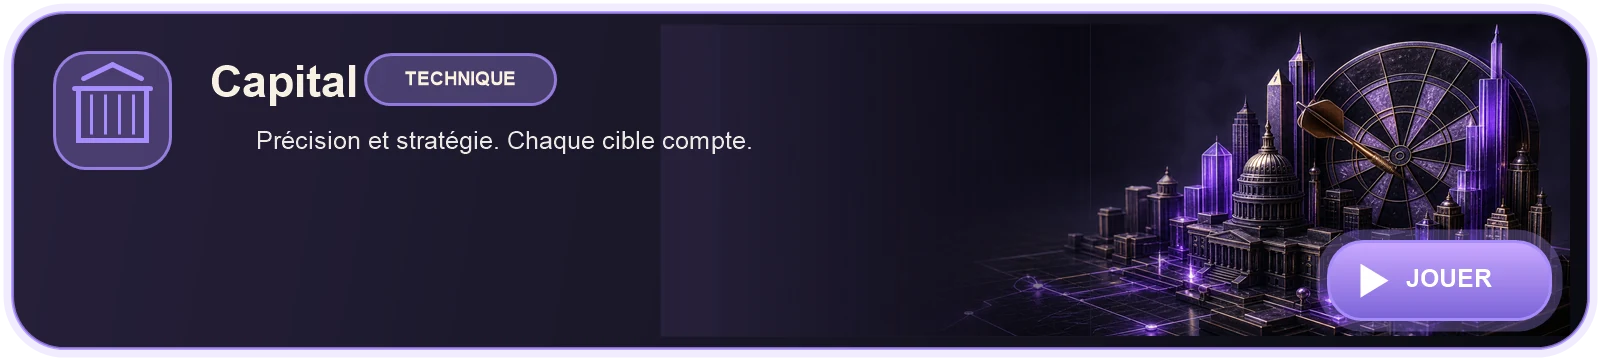
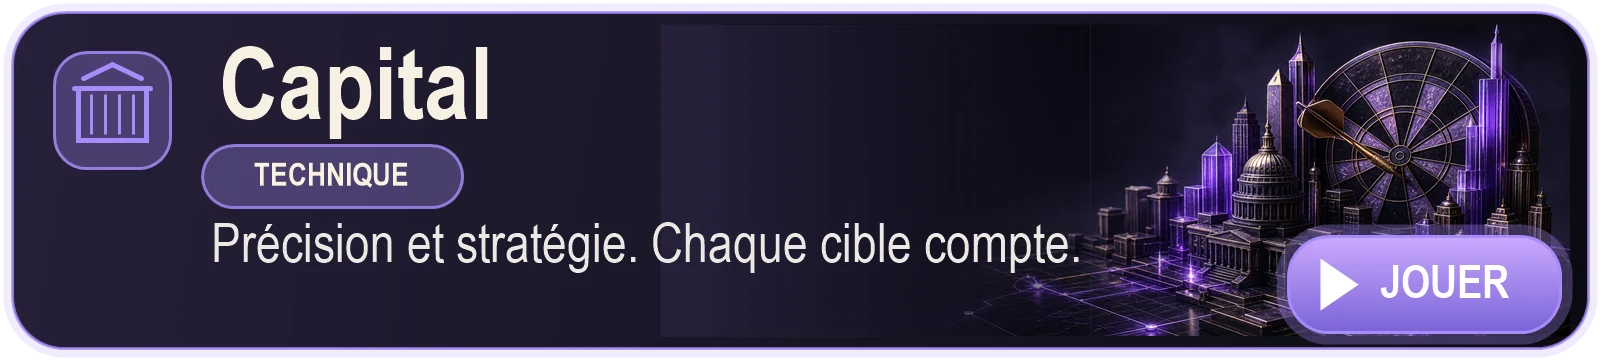
Salle de jeux: bannieres v2, texte lisible sur telephone (v74)
L'utilisateur a refait les 8 images avec un texte nettement plus gros (meme
format 1600x360). Mesure a 375 px de large, avant -> apres :
  titre        6,9 px -> 15,8 px
  description  5,0 px -> 11,1 px
On repasse donc au-dessus du seuil de lisibilite (14-16 px confortable).

- Les 8 nouveaux PNG (01-501-301 ... 08-horloge-double) reconvertis en WebP
  dans public/jeux/ : 481 Ko au total. Memes noms de sortie qu'en v73, donc
  aucun changement de code cote cartes.
- La banniere du bot a change de texte : "Affronte un bot" devient "Affronte le
  bot d'un pote". L'aria-label (invisible, pour les lecteurs d'ecran) est
  recopie a l'identique, sinon il aurait annonce l'ancien libelle. La
  destination du bouton (scoreur-bot) est inchangee.

Verifie : build, lint, et rendu reel a 375 px dans le navigateur - les 8 images
chargent bien (naturalWidth 1600) et les textes des 8 cartes correspondent aux
libelles du code.

Changed region(s): [[0.125, 0.1222, 0.4688, 0.5806], [0.7812, 0.6111, 1.0, 0.9778], [0.125, 0.6111, 0.6875, 0.7639]]

diff --git a/src/App.jsx b/src/App.jsx
@@ -6909,9 +6909,9 @@ const PageModeJeu = ({ joueur, setPage, initCat=null }) => {
             sub="Le grand classique. Choisis 501 ou 301, descends à 0 et termine sur un double."
             onClick={()=>setPage("scoreur")}/>
 
-          {/* 2. Affronte un bot */}
-          <GameCardImg img="bot" label="Affronte un bot" priorite
-            sub="Joue seul contre l'ordi — ou défie le champion Lucky Tillter."
+          {/* 2. Affronte le bot d'un pote — libellé recopié de la bannière (v2 des images) */}
+          <GameCardImg img="bot" label="Affronte le bot d'un pote" priorite
+            sub="Joue contre le bot de ton pote comme s'il était à côté de toi, avec son véritable niveau et son style de jeu."
             onClick={()=>setPage("scoreur-bot")}/>
 
           {/* 3. Cricket */}
